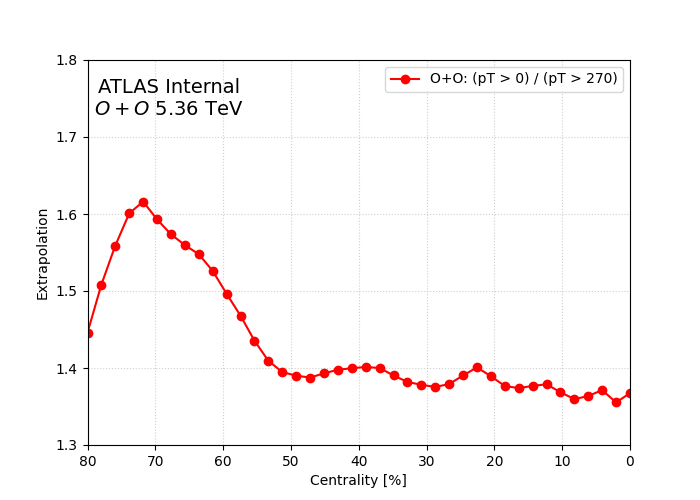
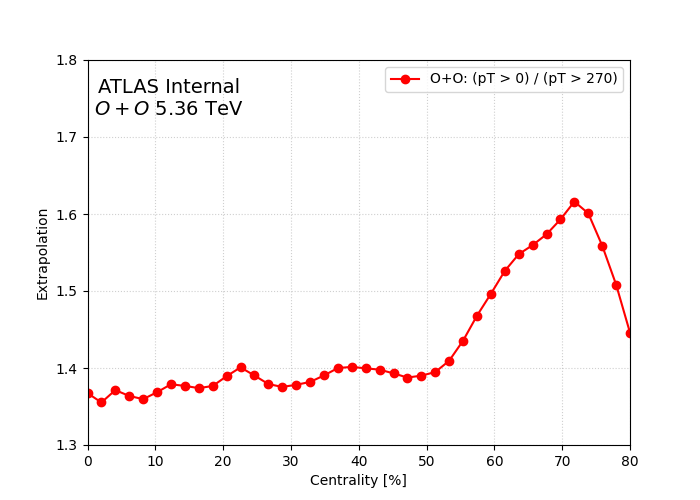
Reprodeced Plot

diff --git a/Extrapolation.py b/Extrapolation.py
@@ -13,8 +13,24 @@ interp_c = interp1d(data_c['centrality'], data_c['dN_deta'], kind='linear', fill
 y_a_new = interp_a(x_new)
 y_c_new = interp_c(x_new)
 
-
 ratio = y_a_new / y_c_new
+
+plt.figure(figsize=(7, 5))
+plt.text(0.15, 0.9, 
+         "ATLAS Internal\n$O+O$ 5.36 TeV", 
+         transform=plt.gca().transAxes,  
+         fontsize=14, 
+         horizontalalignment='center',  
+         verticalalignment='center')
+plt.xlim(0, 80)
+plt.plot(data_a['centrality'],data_a['dN_deta'],  'o-', color='red', label='O+O:  (pT > 0)')
+plt.plot(data_c['centrality'],data_c['dN_deta'],  'o-', color='green', label='O+O: (pT > 270) ')
+
+plt.xlabel('Centrality [%]')
+plt.ylabel('dn/deta')
+plt.grid(True, linestyle=':', alpha=0.6)
+plt.legend()
+plt.savefig("Plots/ExtrapolationControl.png")
 
 
 plt.figure(figsize=(7, 5))
@@ -24,7 +40,7 @@ plt.text(0.15, 0.9,
          fontsize=14, 
          horizontalalignment='center',  
          verticalalignment='center')
-plt.xlim(80, 0)
+plt.xlim(0, 80)
 plt.plot(x_new, ratio, 'o-', color='red', label='O+O: (pT > 0) / (pT > 270)')
 plt.xlabel('Centrality [%]')
 plt.ylabel('Extrapolation')
@@ -32,3 +48,16 @@ plt.grid(True, linestyle=':', alpha=0.6)
 plt.ylim(1.3, 1.8)
 plt.legend()
 plt.savefig("Plots/Extrapolation.png")
+
+x_targets = np.array([0.5, 1.5, 2.5, 3.5, 4.5, 
+    7.5, 12.5, 17.5, 22.5, 27.5, 32.5, 37.5, 42.5, 47.5, 52.5, 57.5, 62.5, 67.5, 72.5, 77.5])
+interp_ratio = interp1d(x_new, ratio, kind='linear', fill_value="extrapolate")
+ratio_targets = interp_ratio(x_targets)
+
+# 4. Wypisujemy wyniki w czytelny sposób (zaokrąglone do 3 miejsc po przecinku)
+print("\n=== WYNIKI DLA TWOICH PUNKTÓW CENTRALNOŚCI ===")
+print("  x (Cent)  |  ratio (Extrapolation)")
+print("------------+------------------------")
+for x, r in zip(x_targets, ratio_targets):
+    print(f"   {x:<8} |  {r:.3f}")
+print("==============================================")